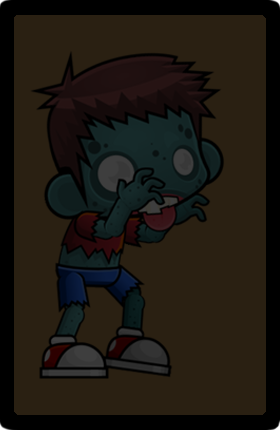
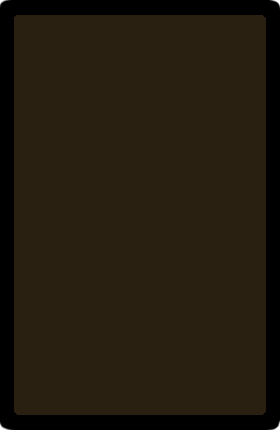
Added hover function to side select button

Changed region(s): [[0.1429, 0.1209, 0.8, 0.8767], [0.2286, 0.1209, 0.3429, 0.1814], [0.5429, 0.3326, 0.5714, 0.3628]]

diff --git a/src/UI_data.js b/src/UI_data.js
@@ -44,7 +44,7 @@ var ContainerInfo = {
 		x : 640,
 		y : 330,
 		buttons : ["selectZombie", "selectHuman","back"],
-		indicators : ["sideSelectionTitle"],
+		indicators : ["sideSelectionTitle","sideZombieIdle","sideZombieAttack","sideHumanIdle","sideHumanAttack"],
 		visibility : false,
 		uiLayer : 0,
 		target_positions : null
@@ -189,8 +189,8 @@ var ButtonInfo = {
 		visible : true,
 		text : true,
 		hovering : false,
-		hoverOn : null,
-		hoverOff : null,
+		hoverOn : function(){changeSideSprite("Zombie",true);},
+		hoverOff : function(){changeSideSprite("Zombie",false);},
 		param : null,
 		execute : function(){selectZombie(); hideStartContainer("level");}
 	},
@@ -205,8 +205,8 @@ var ButtonInfo = {
 		visible : true,
 		text : true,
 		hovering : false,
-		hoverOn : null,
-		hoverOff : null,
+		hoverOn : function(){changeSideSprite("Human",true);},
+		hoverOff : function(){changeSideSprite("Human",false);},
 		param : null,
 		execute : function(){selectHuman(); hideStartContainer("level");}
 	},
@@ -526,6 +526,66 @@ var ButtonInfo = {
 };
 
 var IndicatorInfo = {
+	sideHumanAttack : {
+		type : "indicator",
+		name : "sideHumanAttack",
+		x : 75,
+		y : -200,
+		width : 280,
+		height : 430,
+		visibility : false,
+		txt_sign : "",
+		txt_x : 0,
+		txt_y : 0,
+		txt_color : '',
+		txt_font : '',
+		interval : 0
+	},
+	sideHumanIdle : {
+		type : "indicator",
+		name : "sideHumanIdle",
+		x : 75,
+		y : -200,
+		width : 280,
+		height : 430,
+		visibility : true,
+		txt_sign : "",
+		txt_x : 0,
+		txt_y : 0,
+		txt_color : '',
+		txt_font : '',
+		interval : 0
+	},
+	sideZombieIdle : {
+		type : "indicator",
+		name : "sideZombieIdle",
+		x : -355,
+		y : -200,
+		width : 280,
+		height : 430,
+		visibility : true,
+		txt_sign : "",
+		txt_x : 0,
+		txt_y : 0,
+		txt_color : '',
+		txt_font : '',
+		interval : 0
+	},
+	sideZombieAttack : {
+		type : "indicator",
+		name : "sideZombieAttack",
+		x : -355,
+		y : -200,
+		width : 280,
+		height : 430,
+		visibility : false,
+		txt_sign : "",
+		txt_x : 0,
+		txt_y : 0,
+		txt_color : '',
+		txt_font : '',
+		interval : 0
+	},
 	tooltipSpeed : {
 		type : "indicator",
 		name : "tooltipSpeed",

diff --git a/src/UI_images.js b/src/UI_images.js
@@ -339,6 +339,42 @@ var buttonImages = {
 }
 
 var indicatorImages = {
+	sideHumanIdle : {
+		image_src : "img/side_human_idle.png",
+		max_num_sprites : 1,
+        num_sprites_horz: 1,
+        num_sprites_vert: 1,
+        sprite_width: 0,
+        sprite_height: 0,
+        image: null,
+	},
+	sideHumanAttack : {
+		image_src : "img/side_human_attack.png",
+		max_num_sprites : 1,
+        num_sprites_horz: 1,
+        num_sprites_vert: 1,
+        sprite_width: 0,
+        sprite_height: 0,
+        image: null,
+	},
+	sideZombieIdle : {
+		image_src : "img/side_zombie_idle.png",
+		max_num_sprites : 1,
+        num_sprites_horz: 1,
+        num_sprites_vert: 1,
+        sprite_width: 0,
+        sprite_height: 0,
+        image: null,
+	},
+	sideZombieAttack : {
+		image_src : "img/side_zombie_attack.png",
+		max_num_sprites : 1,
+        num_sprites_horz: 1,
+        num_sprites_vert: 1,
+        sprite_width: 0,
+        sprite_height: 0,
+        image: null,
+	},
 	tooltipBackground : {
 		image_src : "img/tooltip_tower_info.png",
 		max_num_sprites : 1,

diff --git a/src/UI_control.js b/src/UI_control.js
@@ -123,6 +123,20 @@ function hideStartContainer(except)
 	mouse.uiLayer = 0;
 }
 
+function changeSideSprite(defender, isOn)
+{
+	if(isOn == true)
+	{
+		FindIndicator("side"+defender+"Idle").isVisible = false;
+		FindIndicator("side"+defender+"Attack").isVisible = true;
+	}
+	else
+	{
+		FindIndicator("side"+defender+"Idle").isVisible = true;
+		FindIndicator("side"+defender+"Attack").isVisible = false;
+	}
+}
+
 
 //////////	In-game UI control
 function createIngameUI()
